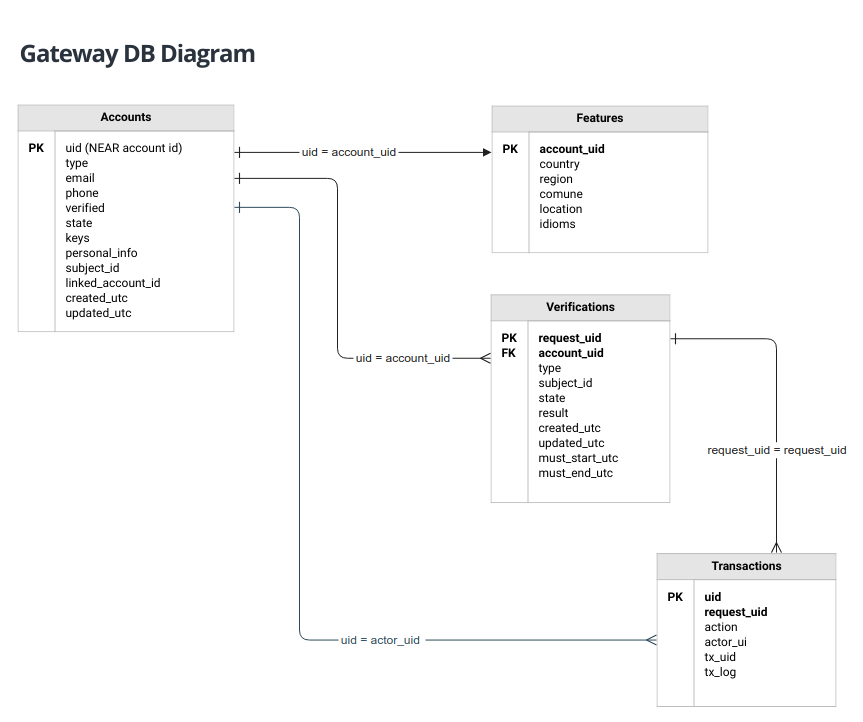
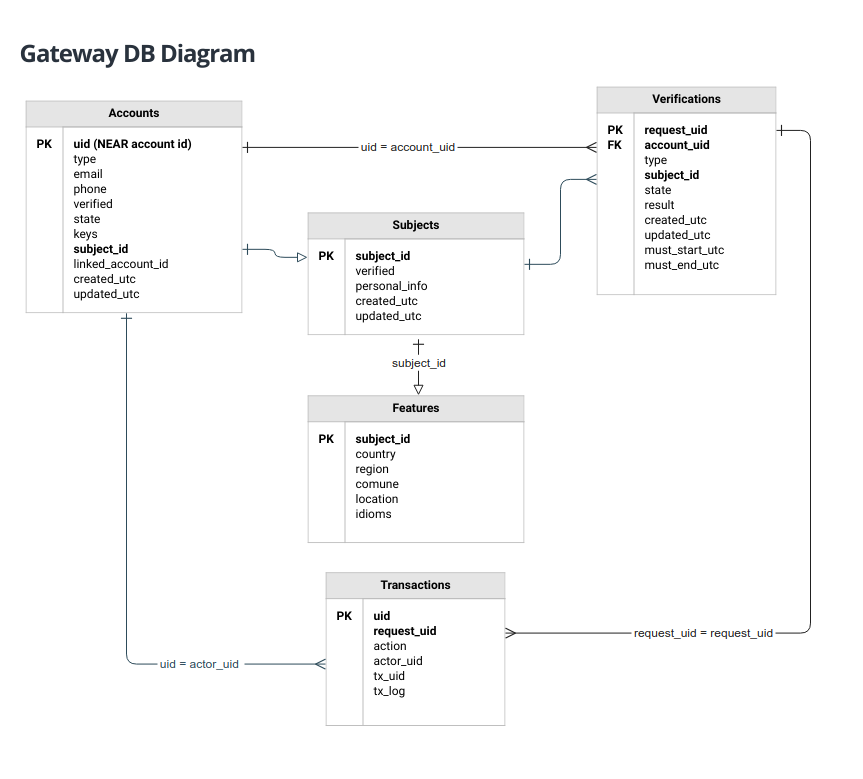
Vincular Subject a Account en modelos

diff --git a/docs/models/gateway-data-model.md b/docs/models/gateway-data-model.md
@@ -46,9 +46,9 @@ This table contains the encripted personal info of all Subjects. This table is n
 
 |Column name|Datatype|Description|
 |--|--|--|
+| `subject_id` | text | Subject ID, example: `ar_dni_12345678`, may be empty |
 | verified | text | Verification state, `TRUE` or `FALSE` |
 | personal_info | text | **Encripted JSON** personal info |
-| subject_id | text | Subject ID, example: `ar_dni_12345678`, may be empty |
 | created_utc | text | Created UTC time stamp in ISO-8601 format |
 | updated_utc | text | Last update UTC time stamp in ISO-8601 format |
 
@@ -66,7 +66,7 @@ The `personal_info` JSON:
 | address | text | Full address information, expressed as a string which can be used by Maps APIs to find location |
 | email | text | Contact email |
 | phone | text | Contact email |
-| preferred | text | Preferred way to contact this Subject: `WHATSAPP `,`TELEGRAM`,`ONSITE`. |
+| preferred | text | Preferred way to contact this Subject: `WHATSAPP`,`TELEGRAM`,`ONSITE`. |
 | health | text | free format description of health status if it applies |
 | extras | text | additional comments |
 
